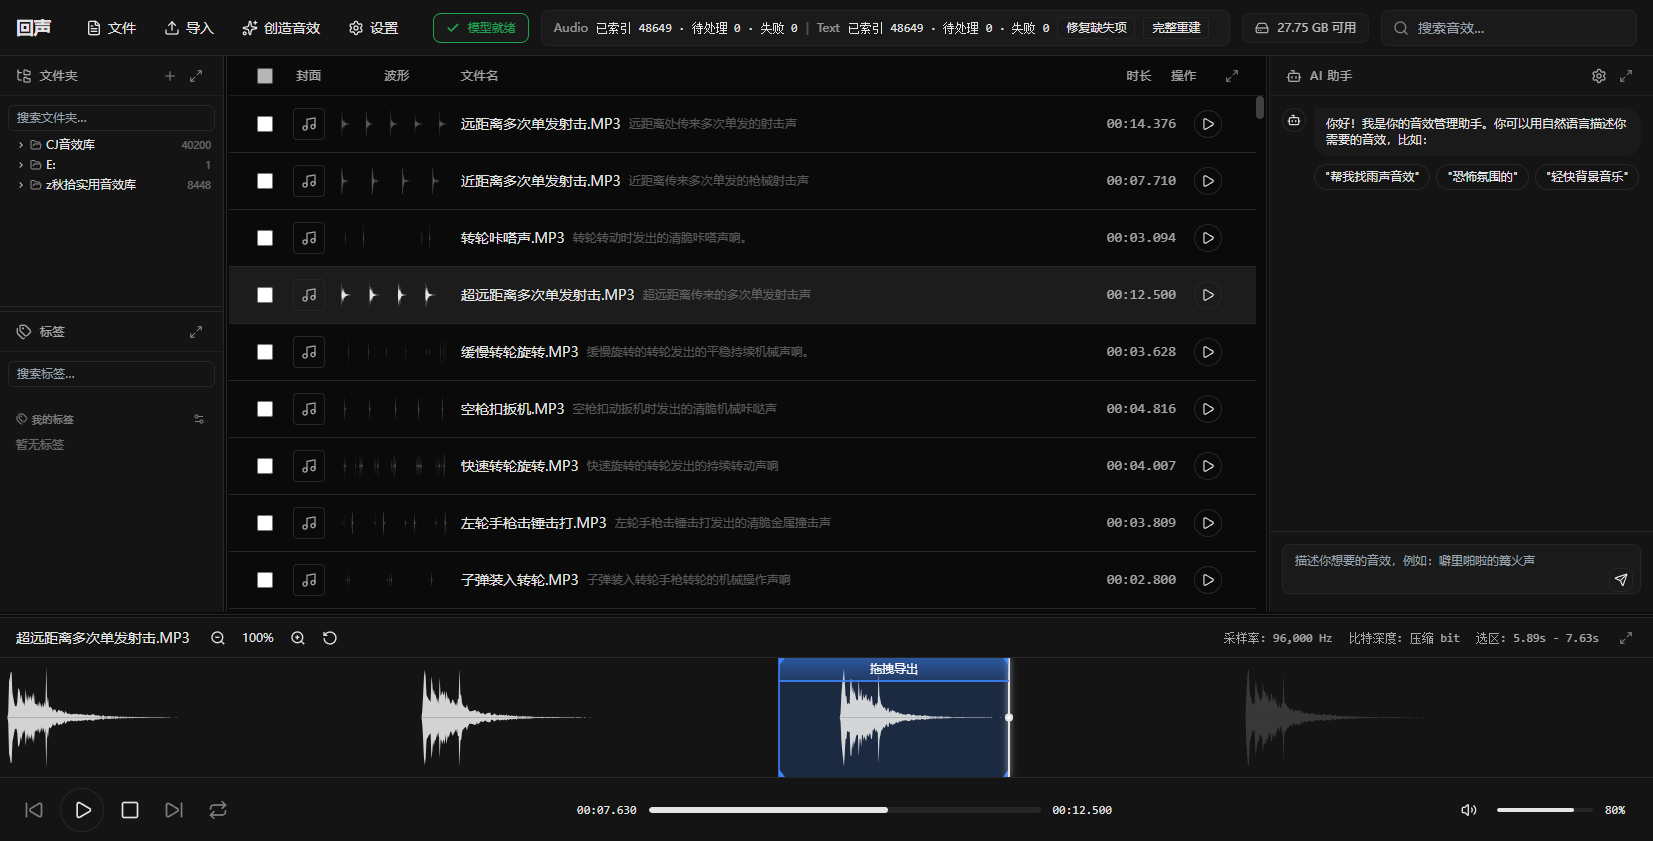
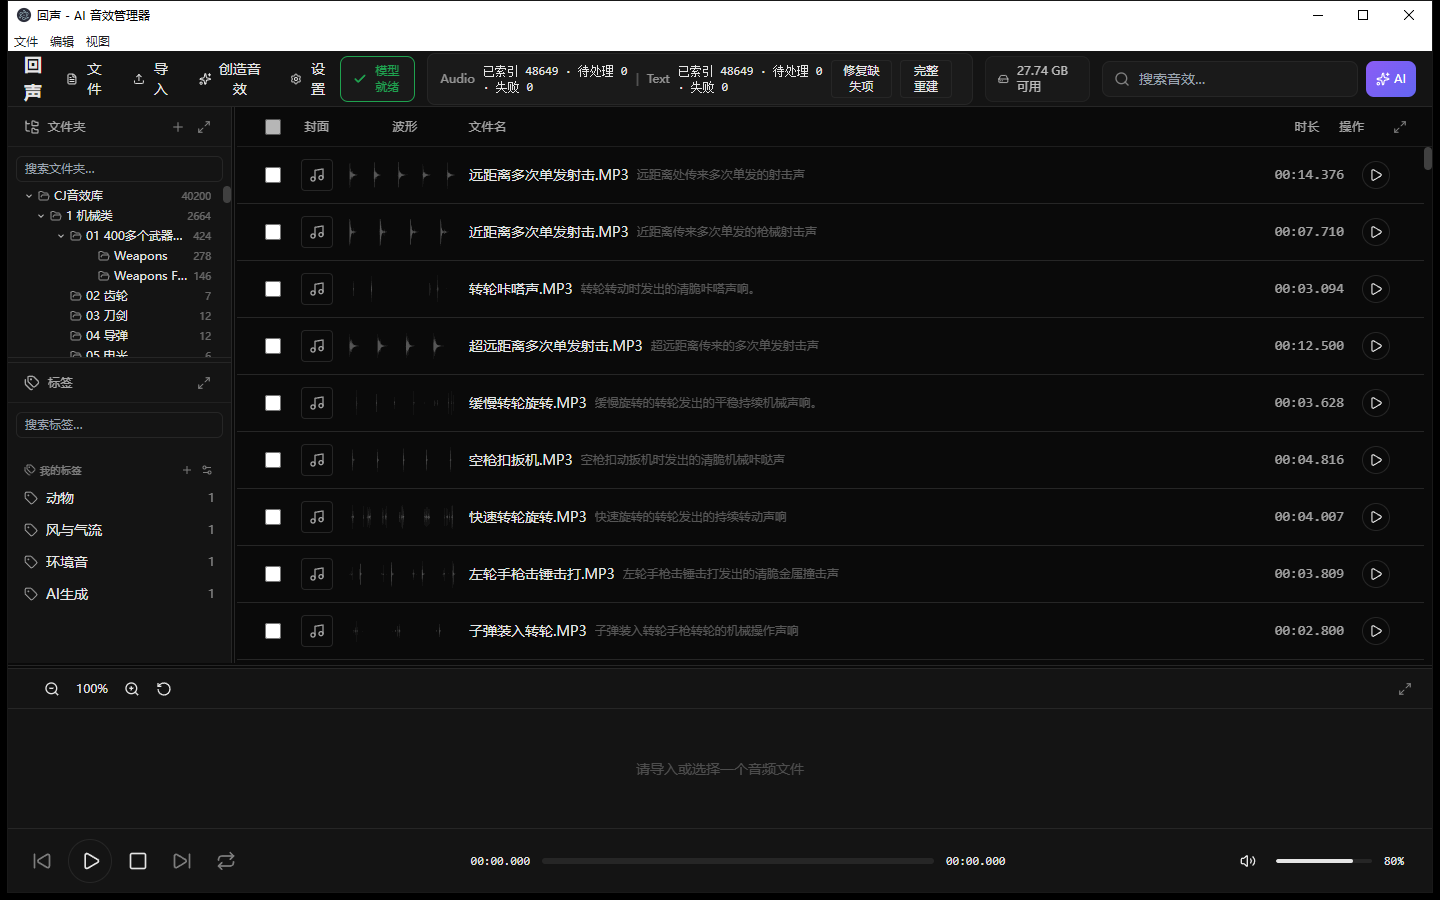
feat: AI 搜索并入搜索框（AI 按钮），移除右侧聊天面板

diff --git a/index.html b/index.html
@@ -326,7 +326,8 @@
                 <span id="diskSpaceText" data-i18n="disk.calculating">计算中...</span>
             </div>
             
-            <div class="relative">
+            <div class="relative flex items-center">
+                <div class="relative">
                 <i data-lucide="search" id="searchIcon" class="w-4 h-4 absolute left-3 top-1/2 -translate-y-1/2 opacity-50"></i>
                 <input type="text" id="searchInput" placeholder="搜索音效..." data-i18n-placeholder="search.placeholder"
                        class="w-64 h-9 pl-9 pr-8 rounded-lg text-sm border transition-all focus:outline-none focus:ring-2 focus:ring-gray-500/50"
@@ -337,6 +338,12 @@
                         <path d="M12 2a10 10 0 0 1 10 10" stroke="currentColor" stroke-width="3" stroke-linecap="round"></path>
                     </svg>
                 </div>
+                </div>
+                <button id="aiSearchBtn" type="button" title="AI 搜索：用一句话描述你想找的声音"
+                        class="ml-2 h-9 px-2.5 rounded-lg text-xs flex items-center gap-1 transition-opacity hover:opacity-90"
+                        style="background: linear-gradient(135deg, #8b5cf6, #6366f1); color: #fff;">
+                    <i data-lucide="sparkles" class="w-3.5 h-3.5"></i><span>AI</span>
+                </button>
             </div>
         </div>
     </header>
@@ -427,11 +434,11 @@
             <div class="flex-1 overflow-y-auto" id="soundList" data-panel-body></div>
         </main>
         
-        <!-- 右分隔条（拖拽调整右栏宽度） -->
-        <div class="panel-resizer-v" data-resizer="right" data-target="#rightAside" data-min="200" data-max="720" title="拖拽调整宽度"></div>
+        <!-- 右分隔条（AI 面板已并入搜索框，保留元素以便兼容旧逻辑） -->
+        <div class="panel-resizer-v hidden" data-resizer="right" data-target="#rightAside" data-min="200" data-max="720" title="拖拽调整宽度"></div>
         
         <!-- ==================== RIGHT: AI CHAT ==================== -->
-        <aside id="rightAside" class="w-96 border-l flex flex-col shrink-0 transition-colors duration-300"
+        <aside id="rightAside" class="hidden w-96 border-l flex-col shrink-0 transition-colors duration-300"
                style="border-color: var(--border-color); background-color: var(--bg-secondary);">
             <div data-panel="ai" data-panel-title="AI 助手" data-panel-extra="#chatInputBar" data-panel-hide="#rightAside" class="flex flex-col flex-1 min-h-0">
                 <div class="h-10 flex items-center justify-between px-4 border-b text-xs font-medium uppercase tracking-wider opacity-70"
@@ -3313,6 +3320,79 @@
             showNotification(`AI 搜索完成，找到 ${results.length} 个相关音效`, 'success');
         }
 
+        // AI 搜索：直接从搜索框发起，结果渲染进主列表（不再依赖右侧聊天面板）
+        async function runAiSearch(rawText) {
+            const input = document.getElementById('searchInput');
+            const text = String(rawText || input?.value || '').trim();
+            if (!text) {
+                showNotification('先输入你想找的声音，例如：雨滴打在窗户上的声音', 'info');
+                input?.focus();
+                return;
+            }
+            const container = document.getElementById('soundList');
+            container.innerHTML = `
+                <div class="flex flex-col items-center justify-center py-16 opacity-70">
+                    <div class="animate-spin w-8 h-8 mb-3" style="border:2px solid var(--border-color); border-top-color:#8b5cf6; border-radius:50%;"></div>
+                    <p class="text-sm">AI 正在理解「${escapeHtml(text)}」…</p>
+                </div>`;
+            let gotResults = false;
+            try {
+                const response = await rendererApi.fetch('/api/v1/ai/chat', {
+                    method: 'POST',
+                    headers: { 'Content-Type': 'application/json' },
+                    body: JSON.stringify(rendererSearch.buildChatPayload({
+                        message: text,
+                        projectId: currentProject?.id,
+                        history: [],
+                        topK: 300,
+                        threshold: 0.15
+                    }))
+                });
+                if (!response.ok) throw new Error('AI 搜索请求失败: ' + response.status);
+
+                const reader = response.body.getReader();
+                const decoder = new TextDecoder();
+                let sseBuffer = '';
+                while (true) {
+                    const { done, value } = await reader.read();
+                    sseBuffer += done ? decoder.decode() : decoder.decode(value, { stream: true });
+                    const lines = sseBuffer.split('\n');
+                    sseBuffer = done ? '' : (lines.pop() || '');
+                    for (const line of lines) {
+                        if (!line.startsWith('data: ')) continue;
+                        const payload = line.slice(6);
+                        if (payload === '[DONE]') continue;
+                        let event;
+                        try { event = JSON.parse(payload); } catch (_) { continue; }
+                        if (event.type === 'results' && Array.isArray(event.results)) {
+                            if (event.results.length) {
+                                displayAiSearchResults(event.results);
+                                gotResults = true;
+                            }
+                        } else if (event.type === 'error') {
+                            showNotification(event.content || 'AI 搜索失败', 'error');
+                        }
+                    }
+                    if (done) break;
+                }
+                if (!gotResults) {
+                    container.innerHTML = `
+                        <div class="flex flex-col items-center justify-center py-16 opacity-60">
+                            <i data-lucide="search-x" class="w-8 h-8 mb-3"></i>
+                            <p class="text-sm">没有找到匹配的音效，换个描述试试</p>
+                        </div>`;
+                    lucide.createIcons();
+                }
+            } catch (error) {
+                console.error('[AI Search] 失败:', error);
+                showNotification('AI 搜索失败: ' + error.message, 'error');
+                container.innerHTML = `
+                    <div class="flex flex-col items-center justify-center py-16 opacity-60">
+                        <p class="text-sm">AI 搜索失败，请检查 AI 设置中的模型是否可用</p>
+                    </div>`;
+            }
+        }
+
         // 追加渲染 AI 搜索结果 [startIdx, endIdx)
         function appendAiResults(startIdx, endIdx) {
             if (startIdx >= endIdx) return;
@@ -5492,6 +5572,12 @@
             } catch (_) {
                 window.__localTags = [];
             }
+            document.getElementById('aiSearchBtn')?.addEventListener('click', (e) => {
+                e.preventDefault();
+                e.stopPropagation();
+                runAiSearch();
+            });
+
             initAudioPlayer();
             bindPlayerContextMenu();
             initializeWaveformResizeObserver();
